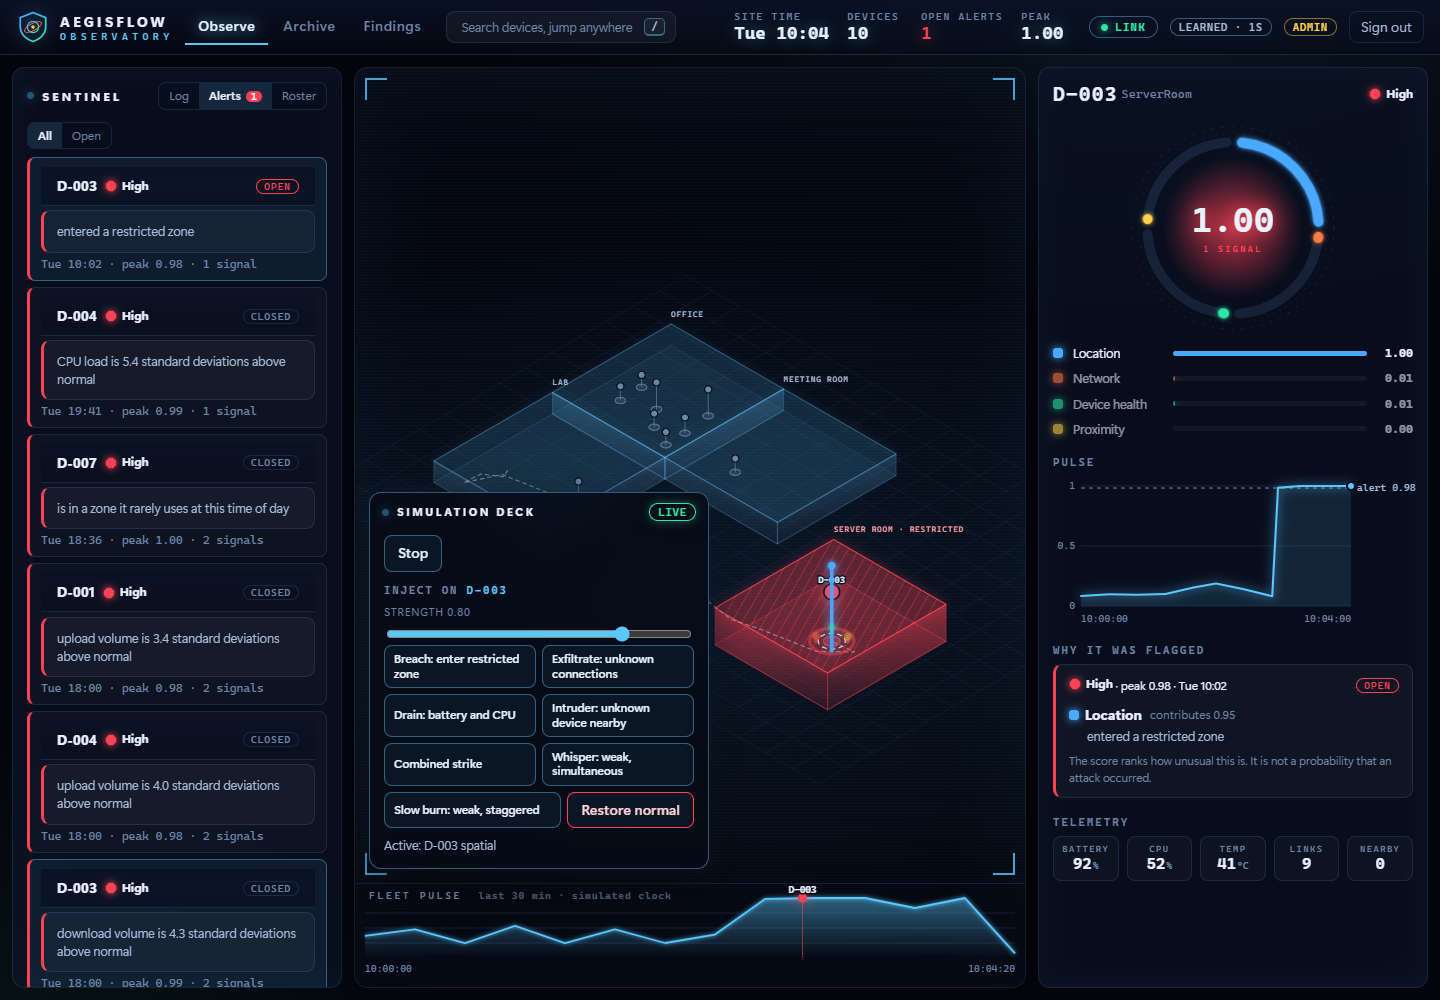
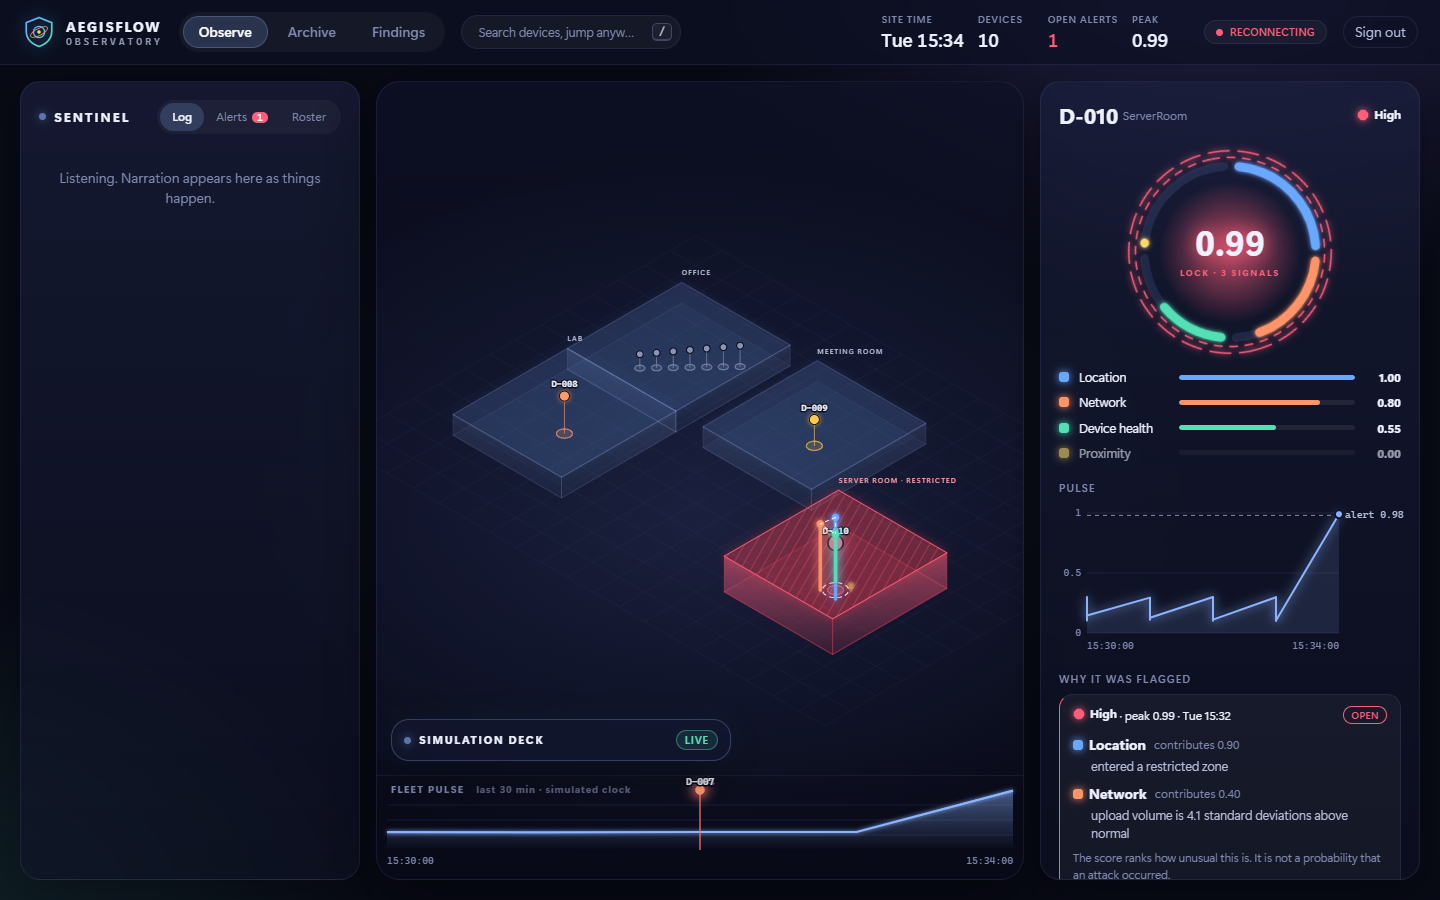
UI: softer, friendlier skin; deck tucks away when live; top bar no longer wraps

diff --git a/frontend/src/styles.css b/frontend/src/styles.css
@@ -359,3 +359,122 @@ table.data td { padding: 6px 8px; border-bottom: 1px solid var(--line); font-var
   .hud { display: none; }
   .legend-signals li { grid-template-columns: 12px 84px 1fr 36px; }
 }
+
+/* ==== SOFT LAYER ============================================================================
+   A calmer, friendlier skin over the structure above: aurora background, rounded frosted panels,
+   sans-serif numbers, gentle colour, fewer shouty capitals. Structure and accessibility are unchanged. */
+:root {
+  --void: #070914;
+  --panel: rgba(20, 24, 48, 0.55);
+  --panel-solid: #12162d;
+  --line: rgba(160, 170, 255, 0.10);
+  --line-strong: rgba(160, 180, 255, 0.26);
+  --ink: #eef1ff;
+  --ink2: #b6bddb;
+  --muted: #7f88ae;
+  --accent: #8ab4ff;
+  --sig-spatial: #6aa8ff;
+  --sig-network: #ff9467;
+  --sig-device: #52e0b4;
+  --sig-proximity: #ffd86b;
+  --sev-high: #ff5d78;
+  --sev-medium: #ff9a6b;
+  --sev-low: #ffc94d;
+  --sev-normal: #8a93b8;
+  --good: #52e0b4;
+}
+body {
+  background-color: var(--void);
+  background-image:
+    radial-gradient(900px 600px at 85% -8%, rgba(138, 120, 255, 0.22), transparent 62%),
+    radial-gradient(800px 600px at -8% 105%, rgba(82, 224, 180, 0.12), transparent 62%),
+    radial-gradient(700px 500px at 50% 50%, rgba(106, 168, 255, 0.06), transparent 70%);
+  background-attachment: fixed;
+}
+.stage::before, .hud { display: none; }
+
+.top { padding: 12px 22px; gap: 16px; background: rgba(12, 15, 34, 0.7); border-bottom: 1px solid var(--line); }
+.brand strong { letter-spacing: 0.14em; font-weight: 700; }
+.brand span { letter-spacing: 0.34em; color: var(--ink2); opacity: 0.8; }
+.modes { gap: 4px; background: rgba(255, 255, 255, 0.04); padding: 4px; border-radius: 999px; }
+.modes button { border: 0; border-radius: 999px; padding: 6px 16px; font-weight: 600; letter-spacing: 0; }
+.modes button[aria-current='page'] { background: rgba(138, 180, 255, 0.18); color: #fff; text-shadow: none; box-shadow: 0 0 0 1px var(--line-strong) inset; }
+.palette-btn { border-radius: 999px; background: rgba(255, 255, 255, 0.04); padding: 7px 8px 7px 16px; }
+.kpis dt { font: 600 10px var(--sans); letter-spacing: 0.08em; text-transform: uppercase; }
+.kpis dd { font: 600 19px var(--sans); text-shadow: none; font-variant-numeric: tabular-nums; }
+.kpis .alert dd { text-shadow: none; }
+.pill, .chip { font-family: var(--sans); letter-spacing: 0.04em; font-weight: 600; text-transform: none; }
+.pill { border-color: var(--line); background: rgba(255, 255, 255, 0.04); }
+.chip { border-color: var(--line); background: rgba(255, 255, 255, 0.03); }
+.chip.live { box-shadow: none; background: rgba(82, 224, 180, 0.1); border-color: rgba(82, 224, 180, 0.4); }
+.ghost, .iconbtn { border-radius: 999px; }
+
+.scene { gap: 16px; padding: 16px 20px 20px; grid-template-columns: 340px minmax(0, 1fr) 380px; }
+.rail { border-radius: 20px; padding: 18px; background: linear-gradient(180deg, rgba(28, 33, 64, 0.62), rgba(16, 19, 40, 0.5)); border: 1px solid var(--line); box-shadow: 0 10px 40px rgba(0, 0, 0, 0.25); }
+.rail h2 { font: 700 13px var(--sans); letter-spacing: 0.16em; }
+.rail h3, .deck-body h3 { font: 600 11px var(--sans); letter-spacing: 0.1em; color: var(--muted); }
+.inspector h2 { font: 700 22px var(--sans); letter-spacing: 0; }
+.stage { border-radius: 24px; border: 1px solid var(--line); background:
+  radial-gradient(800px 500px at 50% 55%, rgba(120, 140, 255, 0.14), transparent 70%), linear-gradient(180deg, rgba(14, 17, 38, 0.75), rgba(8, 10, 24, 0.85)); box-shadow: 0 20px 70px rgba(0, 0, 0, 0.4); }
+.seg { border-radius: 999px; padding: 3px; background: rgba(255, 255, 255, 0.04); border: 0; }
+.seg button { border-radius: 999px; padding: 5px 12px; }
+.seg button[aria-selected='true'], .seg button[aria-pressed='true'] { background: rgba(138, 180, 255, 0.2); }
+
+.btn { border-radius: 12px; border-color: var(--line-strong); background: rgba(255, 255, 255, 0.05); }
+.btn.primary { background: linear-gradient(135deg, #7aa2ff, #a78bff); color: #0a0c1e; }
+.btn.primary:hover:not(:disabled) { box-shadow: 0 6px 26px rgba(138, 120, 255, 0.45); }
+.field input, .field select { border-radius: 10px; }
+
+.log li button { border-left: 0; border-radius: 12px; padding: 9px 12px; }
+.log li + li { margin-top: 2px; }
+.log .t { font: 11px var(--sans); }
+.log .who { font: 700 13px var(--sans); }
+.card-btn { border-left-width: 1px; border-radius: 14px; padding: 12px 14px; background: rgba(255, 255, 255, 0.035); border-color: var(--line); position: relative; overflow: hidden; }
+.card-btn::before { content: ''; position: absolute; left: 0; top: 14px; bottom: 14px; width: 3px; border-radius: 0 3px 3px 0; background: var(--c, var(--sev-normal)); }
+.card-btn:hover, .card-btn[aria-pressed='true'] { background: rgba(138, 180, 255, 0.1); }
+.card-btn .meta, .meta { font: 12px var(--sans); }
+.state { font-family: var(--sans); letter-spacing: 0.04em; }
+.bar, .legend-signals .meter { border-radius: 99px; }
+.bar i, .legend-signals .meter i { box-shadow: none; border-radius: 99px; }
+.why { border-radius: 14px; border-left-width: 1px; background: rgba(255, 255, 255, 0.04); }
+.readouts div { border-radius: 14px; background: rgba(255, 255, 255, 0.035); }
+.readouts dt { font-family: var(--sans); letter-spacing: 0.08em; }
+.readouts dd { font-family: var(--sans); font-weight: 600; }
+.legend-signals b { font-family: var(--sans); }
+.ring-score { font-family: var(--sans); font-weight: 700; }
+.ring-sub { font-family: var(--sans); letter-spacing: 0.14em; }
+.arc, .arc-track { stroke-width: 8; }
+
+.deck { border-radius: 18px; background: rgba(18, 22, 46, 0.78); border-color: var(--line-strong); }
+.deck-toggle { letter-spacing: 0.16em; }
+.modules .btn.module { border-radius: 12px; }
+.ribbon { background: linear-gradient(180deg, transparent, rgba(8, 10, 24, 0.7)); border-top-color: var(--line); }
+.ribbon-title { font-family: var(--sans); letter-spacing: 0.14em; }
+.ribbon-line { stroke-width: 2.2; }
+.boot-pct b { font-family: var(--sans); font-weight: 700; }
+.boot li { font-family: var(--sans); font-size: 13px; }
+.standby h2, .boot h2 { letter-spacing: 0.3em; font-weight: 700; }
+
+.palette { border-radius: 20px; }
+.palette li { border-radius: 12px; }
+.palette li b { font-family: var(--sans); }
+
+.card, .tile { border-radius: 20px; background: linear-gradient(180deg, rgba(28, 33, 64, 0.6), rgba(16, 19, 40, 0.5)); }
+.card h2 { letter-spacing: 0.12em; }
+.tile .label { font-family: var(--sans); letter-spacing: 0.08em; }
+.tile .value { font-family: var(--sans); font-weight: 650; text-shadow: none; }
+.callout { border-radius: 16px; }
+.login-card { border-radius: 24px; }
+
+.vol-top { fill: rgba(138, 160, 255, 0.12); }
+.vol-label { font-family: var(--sans); font-weight: 600; fill: var(--ink2); }
+@media (max-width: 1180px) { .scene { grid-template-columns: minmax(0, 1fr) 360px; } }
+@media (max-width: 820px) { .scene { grid-template-columns: minmax(0, 1fr); padding: 10px; gap: 12px; } .top { padding: 10px 12px; } .rail { border-radius: 18px; } }
+@media (min-width: 821px) {
+  .top { flex-wrap: nowrap; }
+  .palette-btn { min-width: 0; flex: 0 1 220px; overflow: hidden; white-space: nowrap; }
+  .palette-btn span { overflow: hidden; text-overflow: ellipsis; }
+  .kpis { gap: 14px; }
+  .pill, .chip, .ghost { white-space: nowrap; }
+}
+@media (min-width: 821px) and (max-width: 1500px) { .top .chip { display: none; } }

diff --git a/frontend/src/App.tsx b/frontend/src/App.tsx
@@ -53,6 +53,10 @@ export default function App() {
     api.history(selected, 240).then((points) => dispatch({ type: 'history_loaded', device_id: selected, points })).catch(guard)
   }, [api, selected, dispatch, guard])
 
+  // The deck covers part of the scene, so it opens when there is something to start and tucks away once the fleet is live.
+  const demoState = status?.demo.state
+  useEffect(() => { if (demoState === 'live') setDeckOpen(false); else if (demoState === 'idle') setDeckOpen(true) }, [demoState])
+
   // "/" opens the command palette from anywhere that is not a text field.
   useEffect(() => {
     const onKey = (e: KeyboardEvent) => {

diff --git a/scripts/e2e_dashboard.py b/scripts/e2e_dashboard.py
@@ -47,7 +47,9 @@ with sync_playwright() as p:
     page.get_by_role("spinbutton", name="Devices").fill("10")
     page.get_by_role("button", name="Start fleet").click()
     expect(page.locator(".boot")).to_be_visible(timeout=15000); time.sleep(8); shot(page, "04_calibrating")
-    expect(page.get_by_text("Inject on")).to_be_visible(timeout=180000)
+    expect(page.locator(".deck-toggle .chip")).to_have_text("LIVE", timeout=180000)
+    page.locator(".deck-toggle").click() if page.locator(".deck-toggle").get_attribute("aria-expanded") != "true" else None
+    expect(page.get_by_text("Inject on")).to_be_visible()
     expect(page.locator(".beacon").first).to_be_visible(timeout=30000)
     time.sleep(4); shot(page, "05_live_quiet")
     n = page.locator(".beacon").count(); print("  beacons in the scene:", n); assert n == 10
@@ -57,6 +59,8 @@ with sync_playwright() as p:
     sentinel.get_by_role("tab", name="Roster").click()
     sentinel.locator("button.card-btn", has_text="D-003").click()
     expect(page.get_by_role("region", name="Device D-003")).to_be_visible()
+    deck_toggle = page.locator(".deck-toggle")   # the deck tucks itself away once the fleet is live
+    if deck_toggle.get_attribute("aria-expanded") != "true": deck_toggle.click()
     page.get_by_role("button", name=re.compile("Breach")).click()
     sentinel.get_by_role("tab", name=re.compile("Alerts")).click()
     # The Docker stack keeps its data between runs, so older D-003 alerts may be listed: target the OPEN one.
